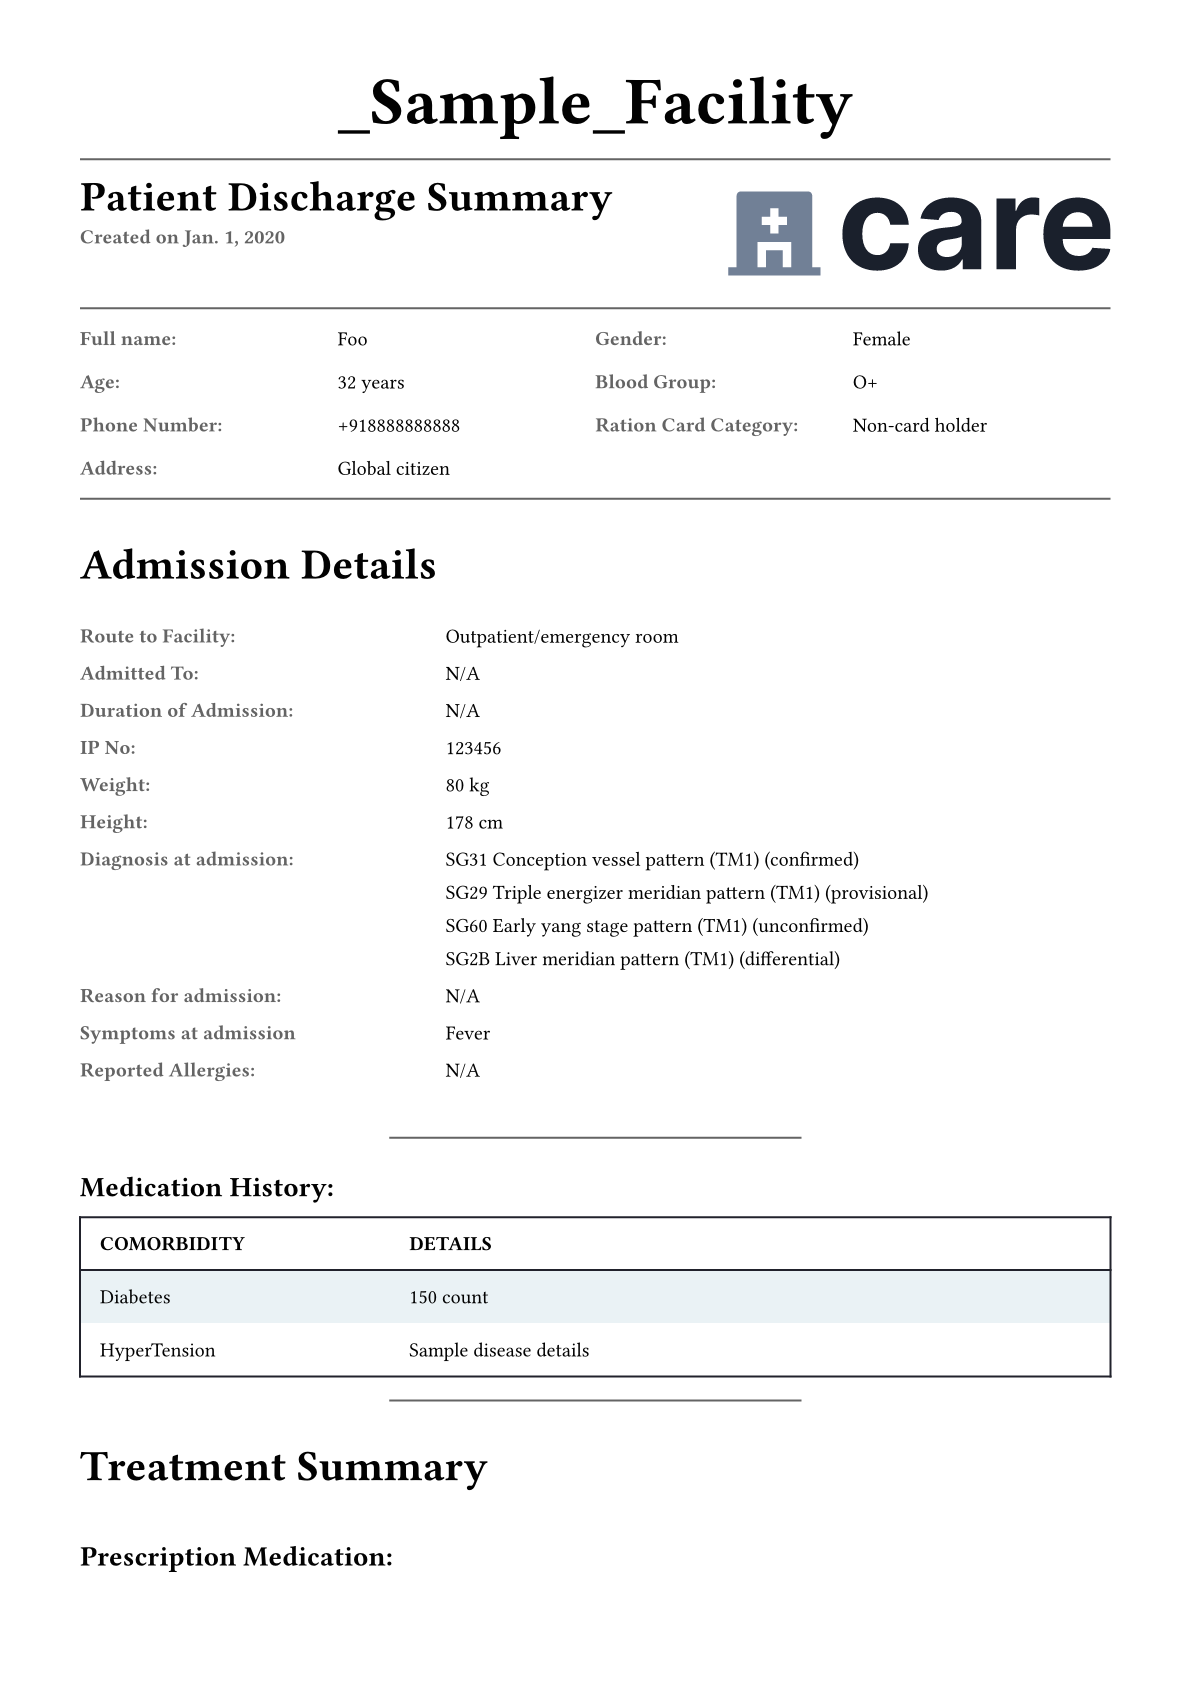
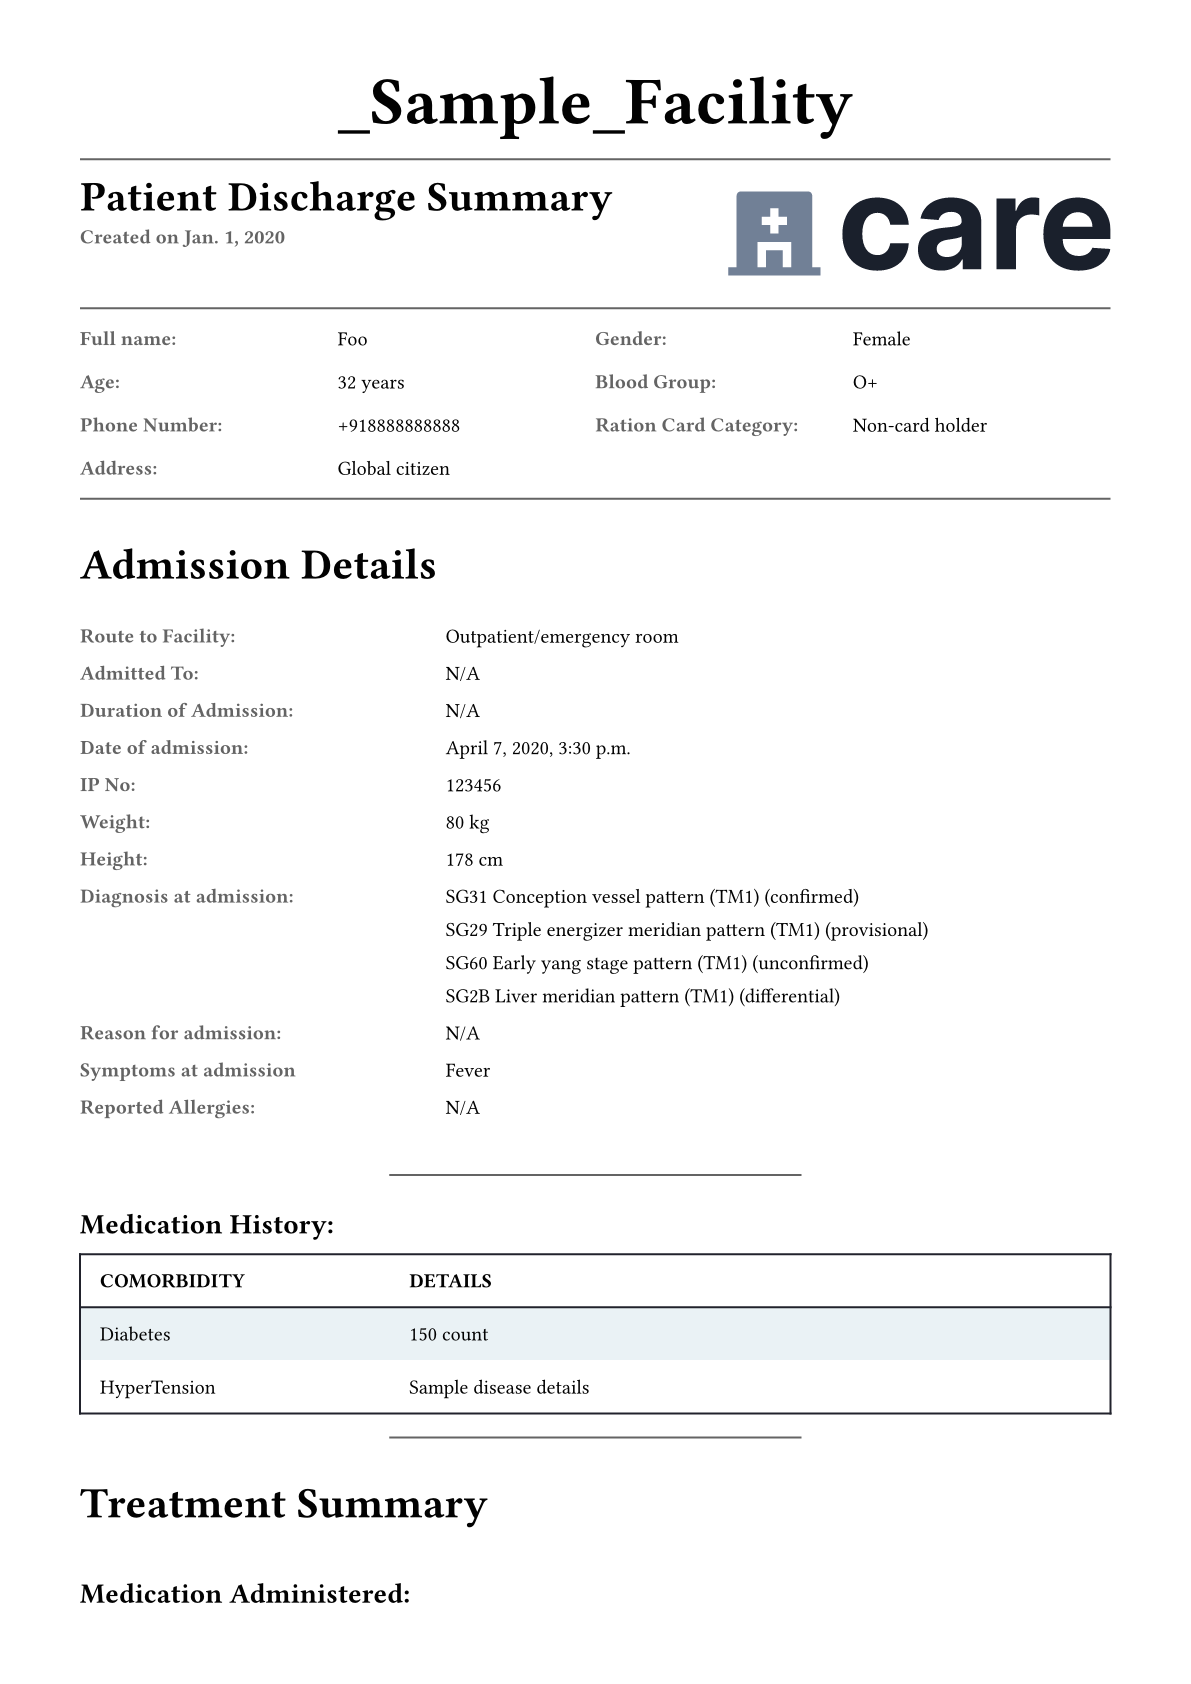
added data formatting tags

diff --git a/care/facility/utils/reports/discharge_summary.py b/care/facility/utils/reports/discharge_summary.py
@@ -13,7 +13,8 @@ from django.template.loader import render_to_string
 from django.utils import timezone
 
 from care.facility.models import (
-    BedTypeChoices,
+    BedType,
+    ConsultationBed,
     Disease,
     EncounterSymptom,
     InvestigationValue,
@@ -29,7 +30,7 @@ from care.facility.models.icd11_diagnosis import (
     ACTIVE_CONDITION_VERIFICATION_STATUSES,
     ConditionVerificationStatus,
 )
-from care.facility.static_data.icd11 import get_icd11_diagnoses_objects_by_ids
+from care.facility.static_data.icd11 import get_icd11_diagnosis_object_by_id
 from care.hcx.models.policy import Policy
 
 logger = logging.getLogger(__name__)
@@ -66,15 +67,19 @@ def get_diagnoses_data(consultation: PatientConsultation):
         )
     )
 
-    # retrieve diagnosis objects from in-memory table
-    diagnoses = get_icd11_diagnoses_objects_by_ids([entry[0] for entry in entries])
-
+    # retrieve diagnosis objects
+    diagnoses = []
+    for entry in entries:
+        diagnose = get_icd11_diagnosis_object_by_id(entry[0])
+        if diagnose:
+            diagnoses.append(diagnose)
+    print(diagnoses)
     principal, unconfirmed, provisional, differential, confirmed = [], [], [], [], []
 
     for diagnosis, record in zip(diagnoses, entries):
         _, verification_status, is_principal = record
 
-        diagnosis.status = verification_status
+        diagnosis.verification_status = verification_status
 
         if is_principal:
             principal.append(diagnosis)
@@ -101,10 +106,11 @@ def format_duration(duration):
         return ""
 
     days = duration.days
+    if days > 0:
+        return f"{days} days"
     hours, remainder = divmod(duration.seconds, 3600)
     minutes, _ = divmod(remainder, 60)
-
-    return f"{days} days, {hours}:{minutes:02d} hours"
+    return f"{hours:02}:{minutes:02}"
 
 
 def get_discharge_summary_data(consultation: PatientConsultation):
@@ -113,9 +119,9 @@ def get_discharge_summary_data(consultation: PatientConsultation):
         patient=consultation.patient, consultation=consultation
     )
     hcx = Policy.objects.filter(patient=consultation.patient)
-    symptoms = EncounterSymptom.objects.filter(consultation=consultation).exclude(
-        clinical_impression_status=ClinicalImpressionStatus.ENTERED_IN_ERROR
-    )
+    symptoms = EncounterSymptom.objects.filter(
+        consultation=consultation, onset_date__lt=consultation.encounter_date
+    ).exclude(clinical_impression_status=ClinicalImpressionStatus.ENTERED_IN_ERROR)
     diagnoses = get_diagnoses_data(consultation)
     investigations = InvestigationValue.objects.filter(
         Q(consultation=consultation.id)
@@ -157,9 +163,15 @@ def get_discharge_summary_data(consultation: PatientConsultation):
         upload_completed=True,
         is_archived=False,
     )
-    admitted_to = None
-    if consultation.current_bed:
-        admitted_to = f"{consultation.current_bed.bed} ({BedTypeChoices[consultation.current_bed.bed.bed_type][1]})"
+    admitted_to = []
+    if ConsultationBed.objects.filter(consultation=consultation).exists():
+        for bed in ConsultationBed.objects.filter(consultation=consultation).order_by(
+            "-created_date"
+        ):
+            admitted_to.append(BedType(bed.bed.bed_type).name)
+    if not admitted_to:
+        admitted_to = None
+
     admission_duration = (
         format_duration(consultation.discharge_date - consultation.encounter_date)
         if consultation.discharge_date

diff --git a/care/facility/templatetags/prescription_tags.py b/care/facility/templatetags/prescription_tags.py
@@ -8,11 +8,6 @@ def format_prescription(prescription):
     if prescription.dosage_type == "TITRATED":
         return f"{prescription.medicine_name}, titration from {prescription.base_dosage} to {prescription.target_dosage}, {prescription.route}, {prescription.frequency} for {prescription.days} days."
     if prescription.dosage_type == "PRN":
-        min_hours_str = (
-            f" Should have minimum {prescription.min_hours_between_doses} hours between two doses,"
-            if prescription.min_hours_between_doses
-            else ""
-        )
-        return f"{prescription.medicine_name}, {prescription.base_dosage} to {prescription.max_dosage}, {min_hours_str} Indicated by {prescription.indicator}"
+        return f"{prescription.medicine_name}, {prescription.base_dosage}, {prescription.route}"
     else:
         return f"{prescription.medicine_name}, {prescription.base_dosage}, {prescription.route}, {prescription.frequency} for {prescription.days} days."

diff --git a/care/facility/templatetags/data_formatting_tags.py b/care/facility/templatetags/data_formatting_tags.py
@@ -5,7 +5,29 @@ register = template.Library()
 
 @register.filter(name="format_empty_data")
 def format_empty_data(data):
-    if data is None or data == "" or data == 0.0:
+    if data is None or data == "" or data == 0.0 or data == []:
         return "N/A"
+
+    return data
+
+
+@register.filter(name="format_to_sentence_case")
+def format_to_sentence_case(data):
+    if data is None:
+        return
+
+    def convert_to_sentence_case(s):
+        s = s.lower()
+        s = s.replace("_", " ")
+        return s.capitalize()
+
+    if isinstance(data, str):
+        items = data.split(", ")
+        converted_items = [convert_to_sentence_case(item) for item in items]
+        return ", ".join(converted_items)
+
+    elif isinstance(data, (list, tuple)):
+        converted_items = [convert_to_sentence_case(item) for item in data]
+        return ", ".join(converted_items)
 
     return data

diff --git a/care/facility/static_data/icd11.py b/care/facility/static_data/icd11.py
@@ -66,10 +66,12 @@ def get_icd11_diagnoses_objects_by_ids(diagnoses_ids: list[int]) -> list[ICD11Ob
     if not diagnoses_ids:
         return []
 
-    diagnoses_objects = []
+    query = None
     for diagnosis_id in diagnoses_ids:
-        diagnoses = get_icd11_diagnosis_object_by_id(diagnosis_id)
-        if diagnoses:
-            diagnoses_objects.append(diagnoses)
+        if query is None:
+            query = ICD11.id == diagnosis_id
+        else:
+            query |= ICD11.id == diagnosis_id
 
-    return diagnoses_objects
+    diagnosis_objects: list[ICD11] = list(ICD11.find(query))
+    return [diagnosis.get_representation() for diagnosis in diagnosis_objects]
